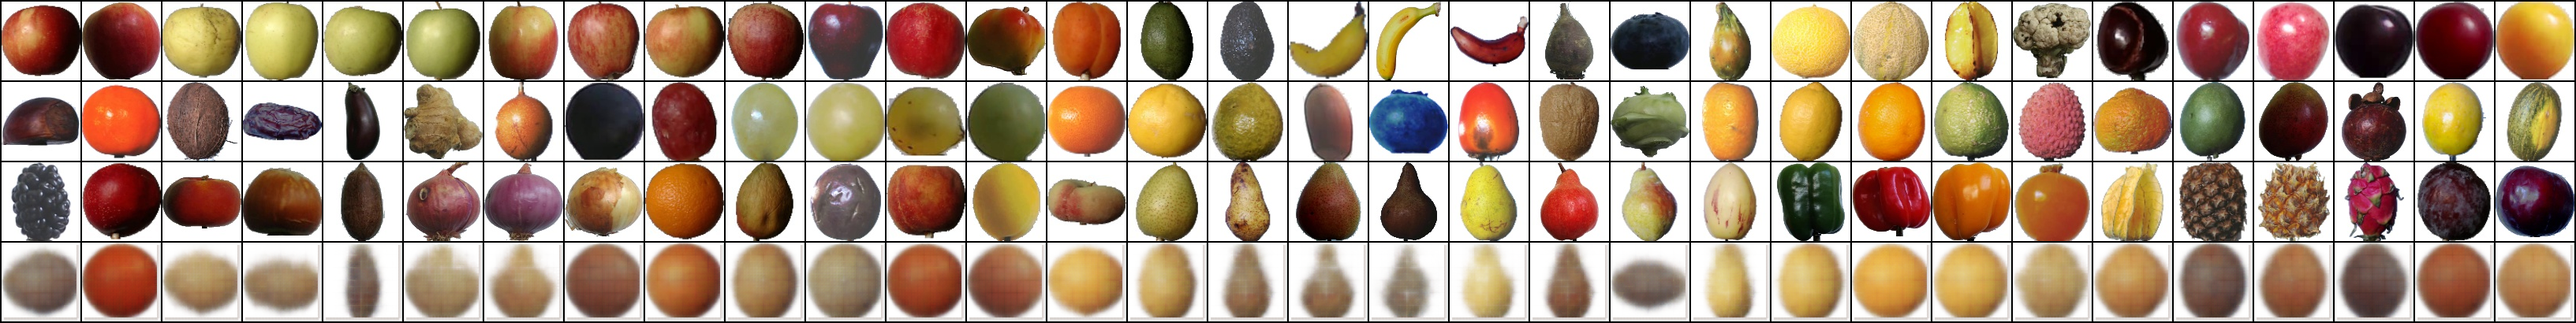
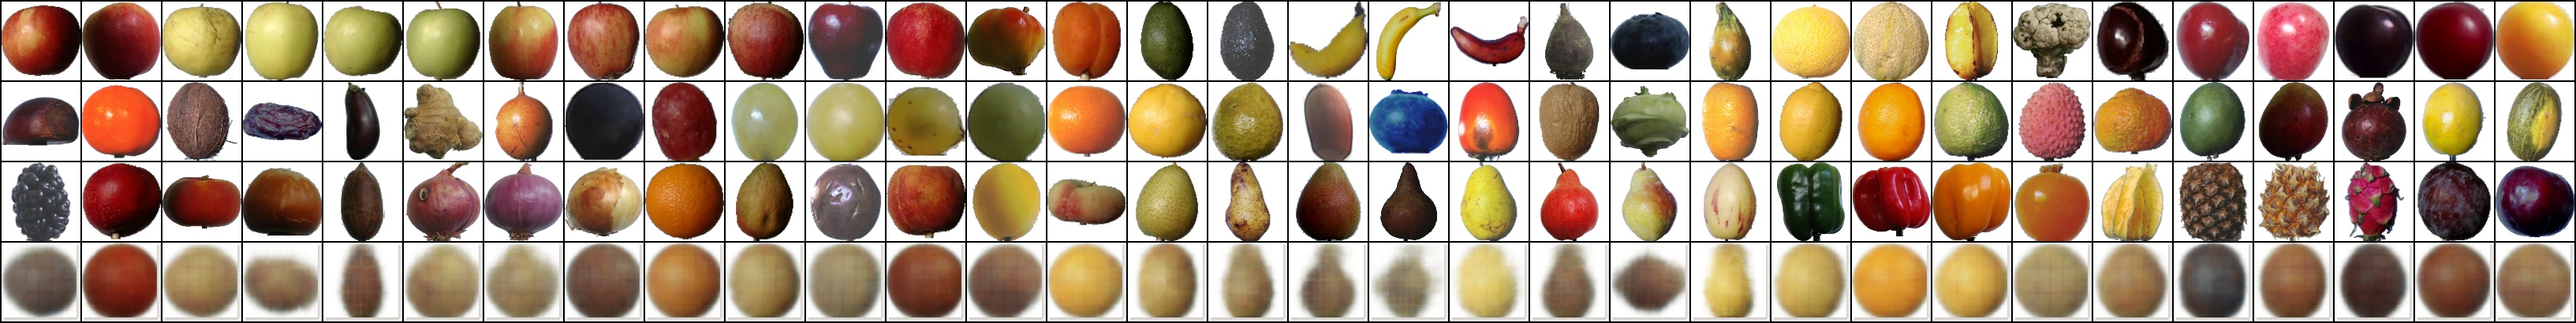
Samples from using z=mu + sigma * e decoding

Changed region(s): [[0.0, 0.761, 0.9994, 0.9951]]

diff --git a/Project/embedding_nets.py b/Project/embedding_nets.py
@@ -755,7 +755,7 @@ class BasicVAEEncoder (nn.Module):
                                        a) The average represnetation of the provided samples, or if NO sample is given,
                                        b) The decoded output of a random latent space sample
         """
-        self.eval()
+        self.train()
         if sample is not None:
             # Turn input to list, if not already
             if not isinstance(sample, list):
